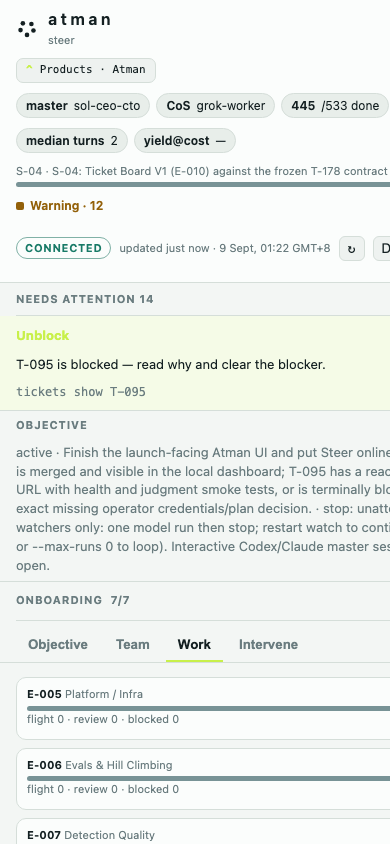
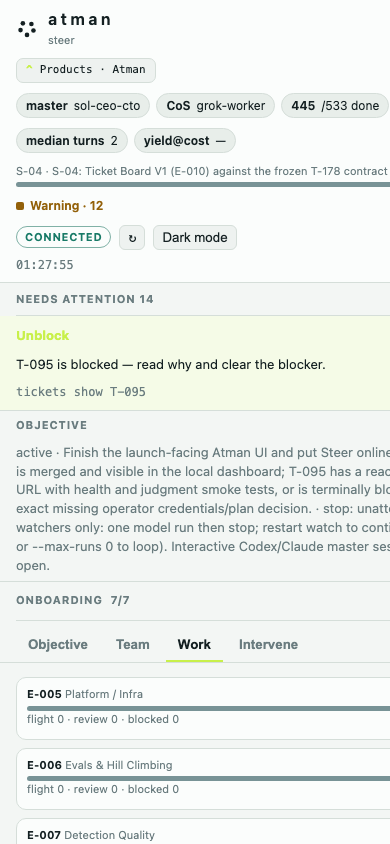
ui: keep mobile dashboard controls visible

diff --git a/tickets.py b/tickets.py
@@ -8712,8 +8712,8 @@ body[data-tab=objective] #pane-objective,body[data-tab=board] #pane-board,body[d
 @media(max-width:700px){.seat{min-width:108px}.chat-layout{flex-direction:column}.chat-rail{max-width:none;flex-direction:row;flex-wrap:wrap}}
 @media(max-width:600px){
   header.cmd{flex-direction:column;align-items:stretch}
-  .conn{display:grid;grid-template-columns:auto minmax(0,1fr) auto auto;margin-left:0}
-  #lastUpdated{min-width:0;overflow:hidden;text-overflow:ellipsis;white-space:nowrap}
+  .conn{display:grid;grid-template-columns:auto auto auto;justify-content:start;margin-left:0}
+  #lastUpdated{display:none}
   #clock{grid-column:1/-1;margin-left:0}
   .next-step,.promise-strip{flex-direction:column;align-items:flex-start}
   .next-step .cmd{white-space:normal;overflow-wrap:anywhere}
